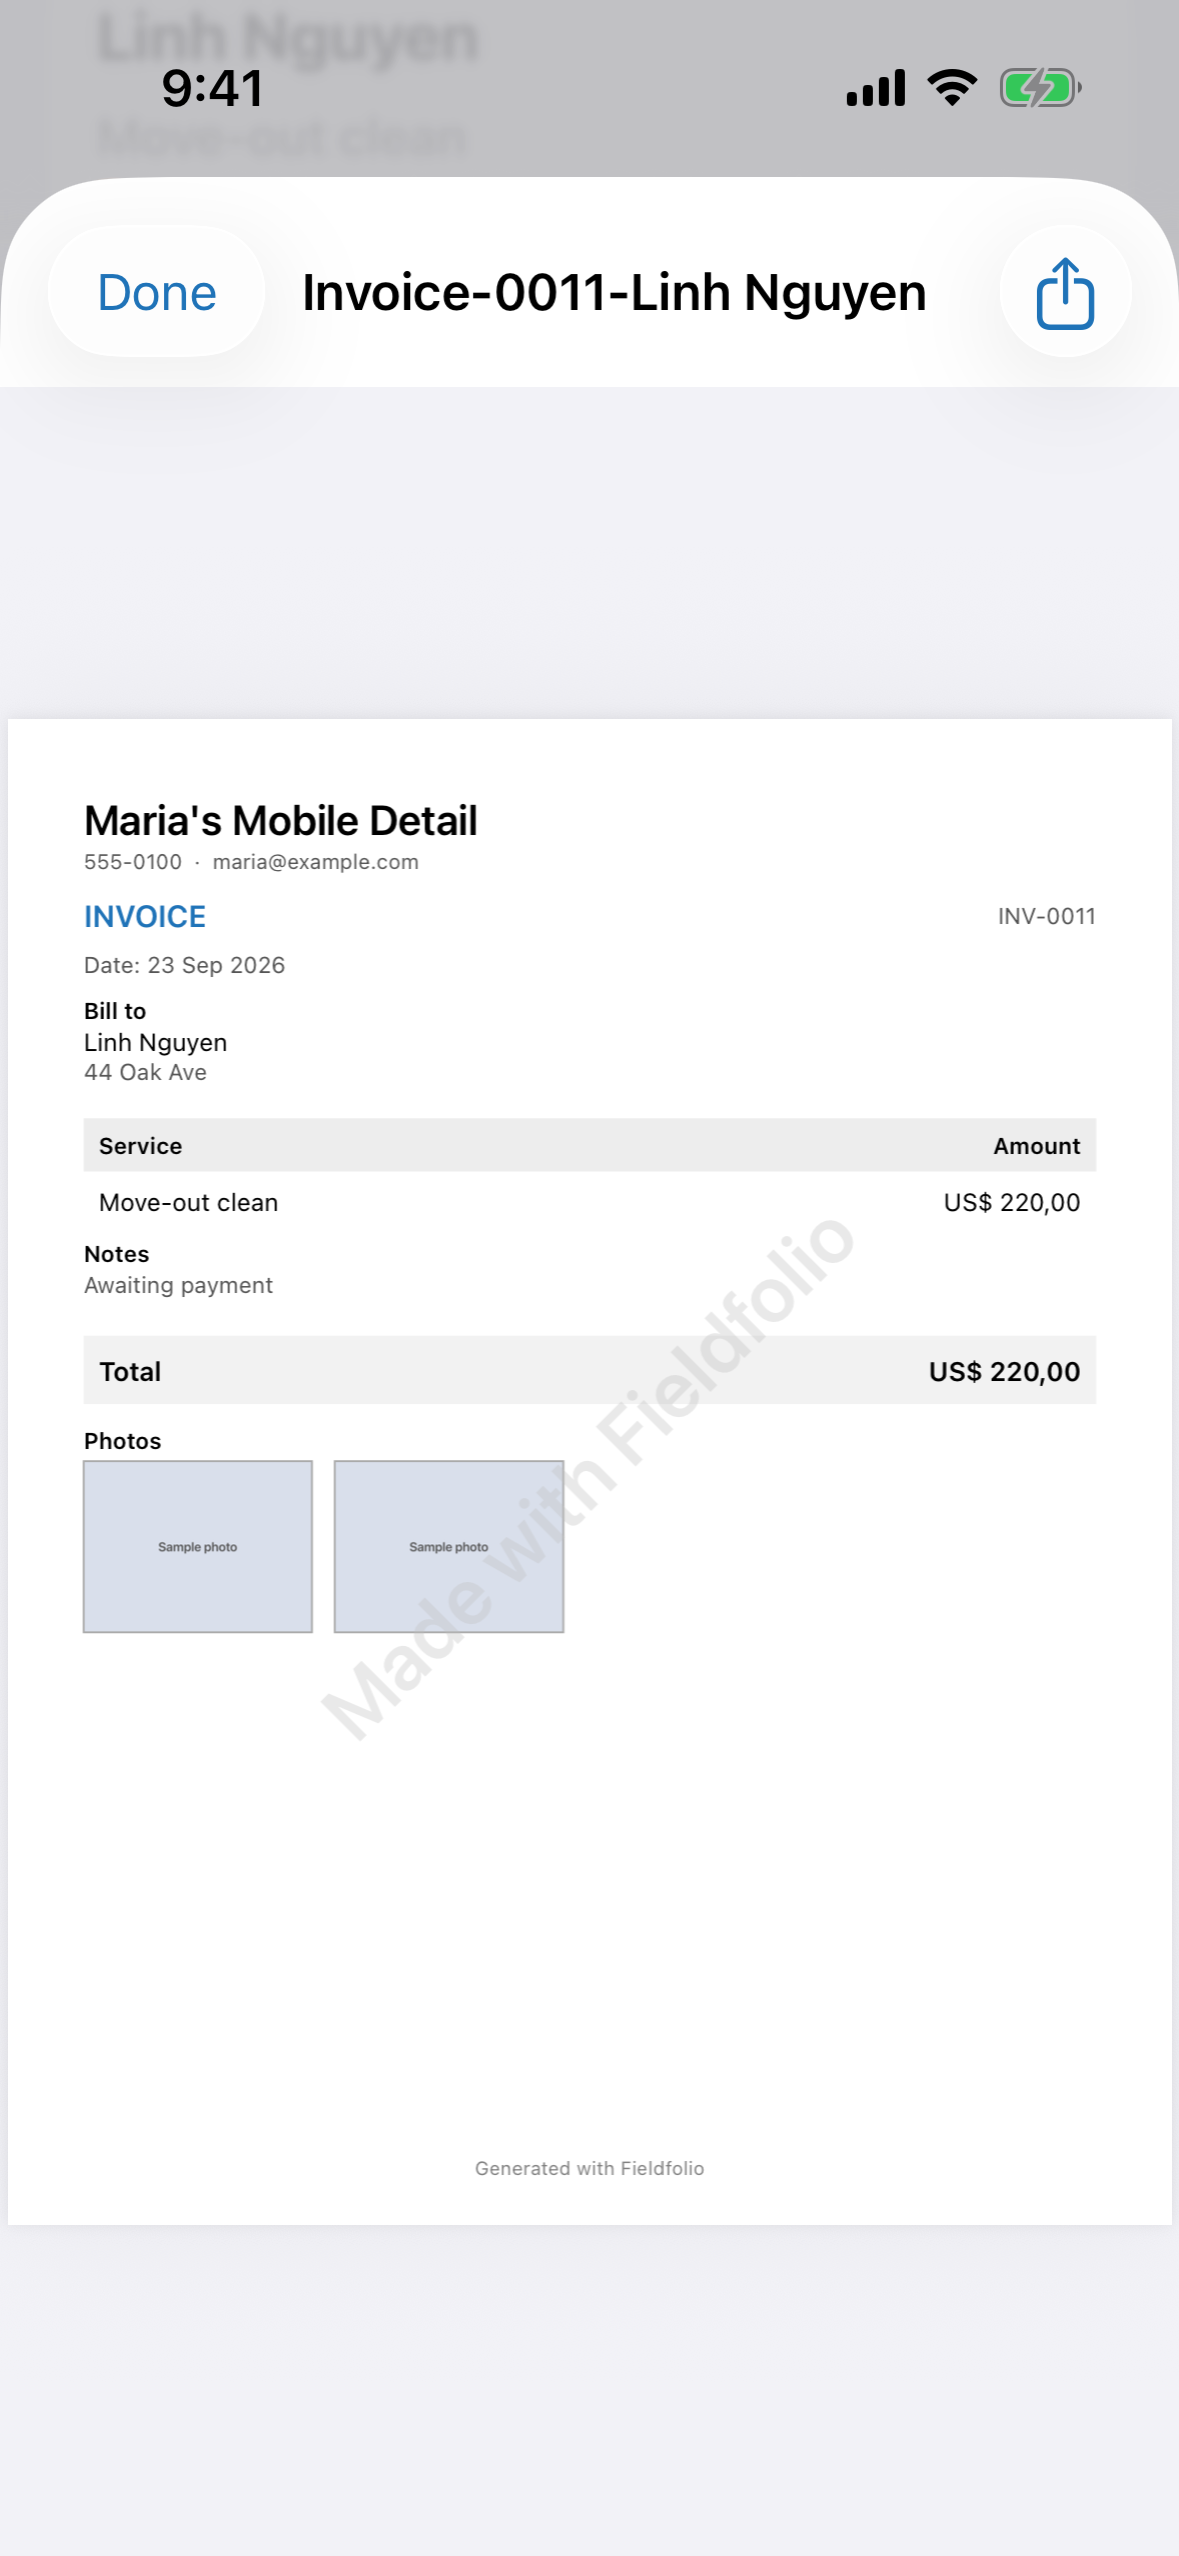
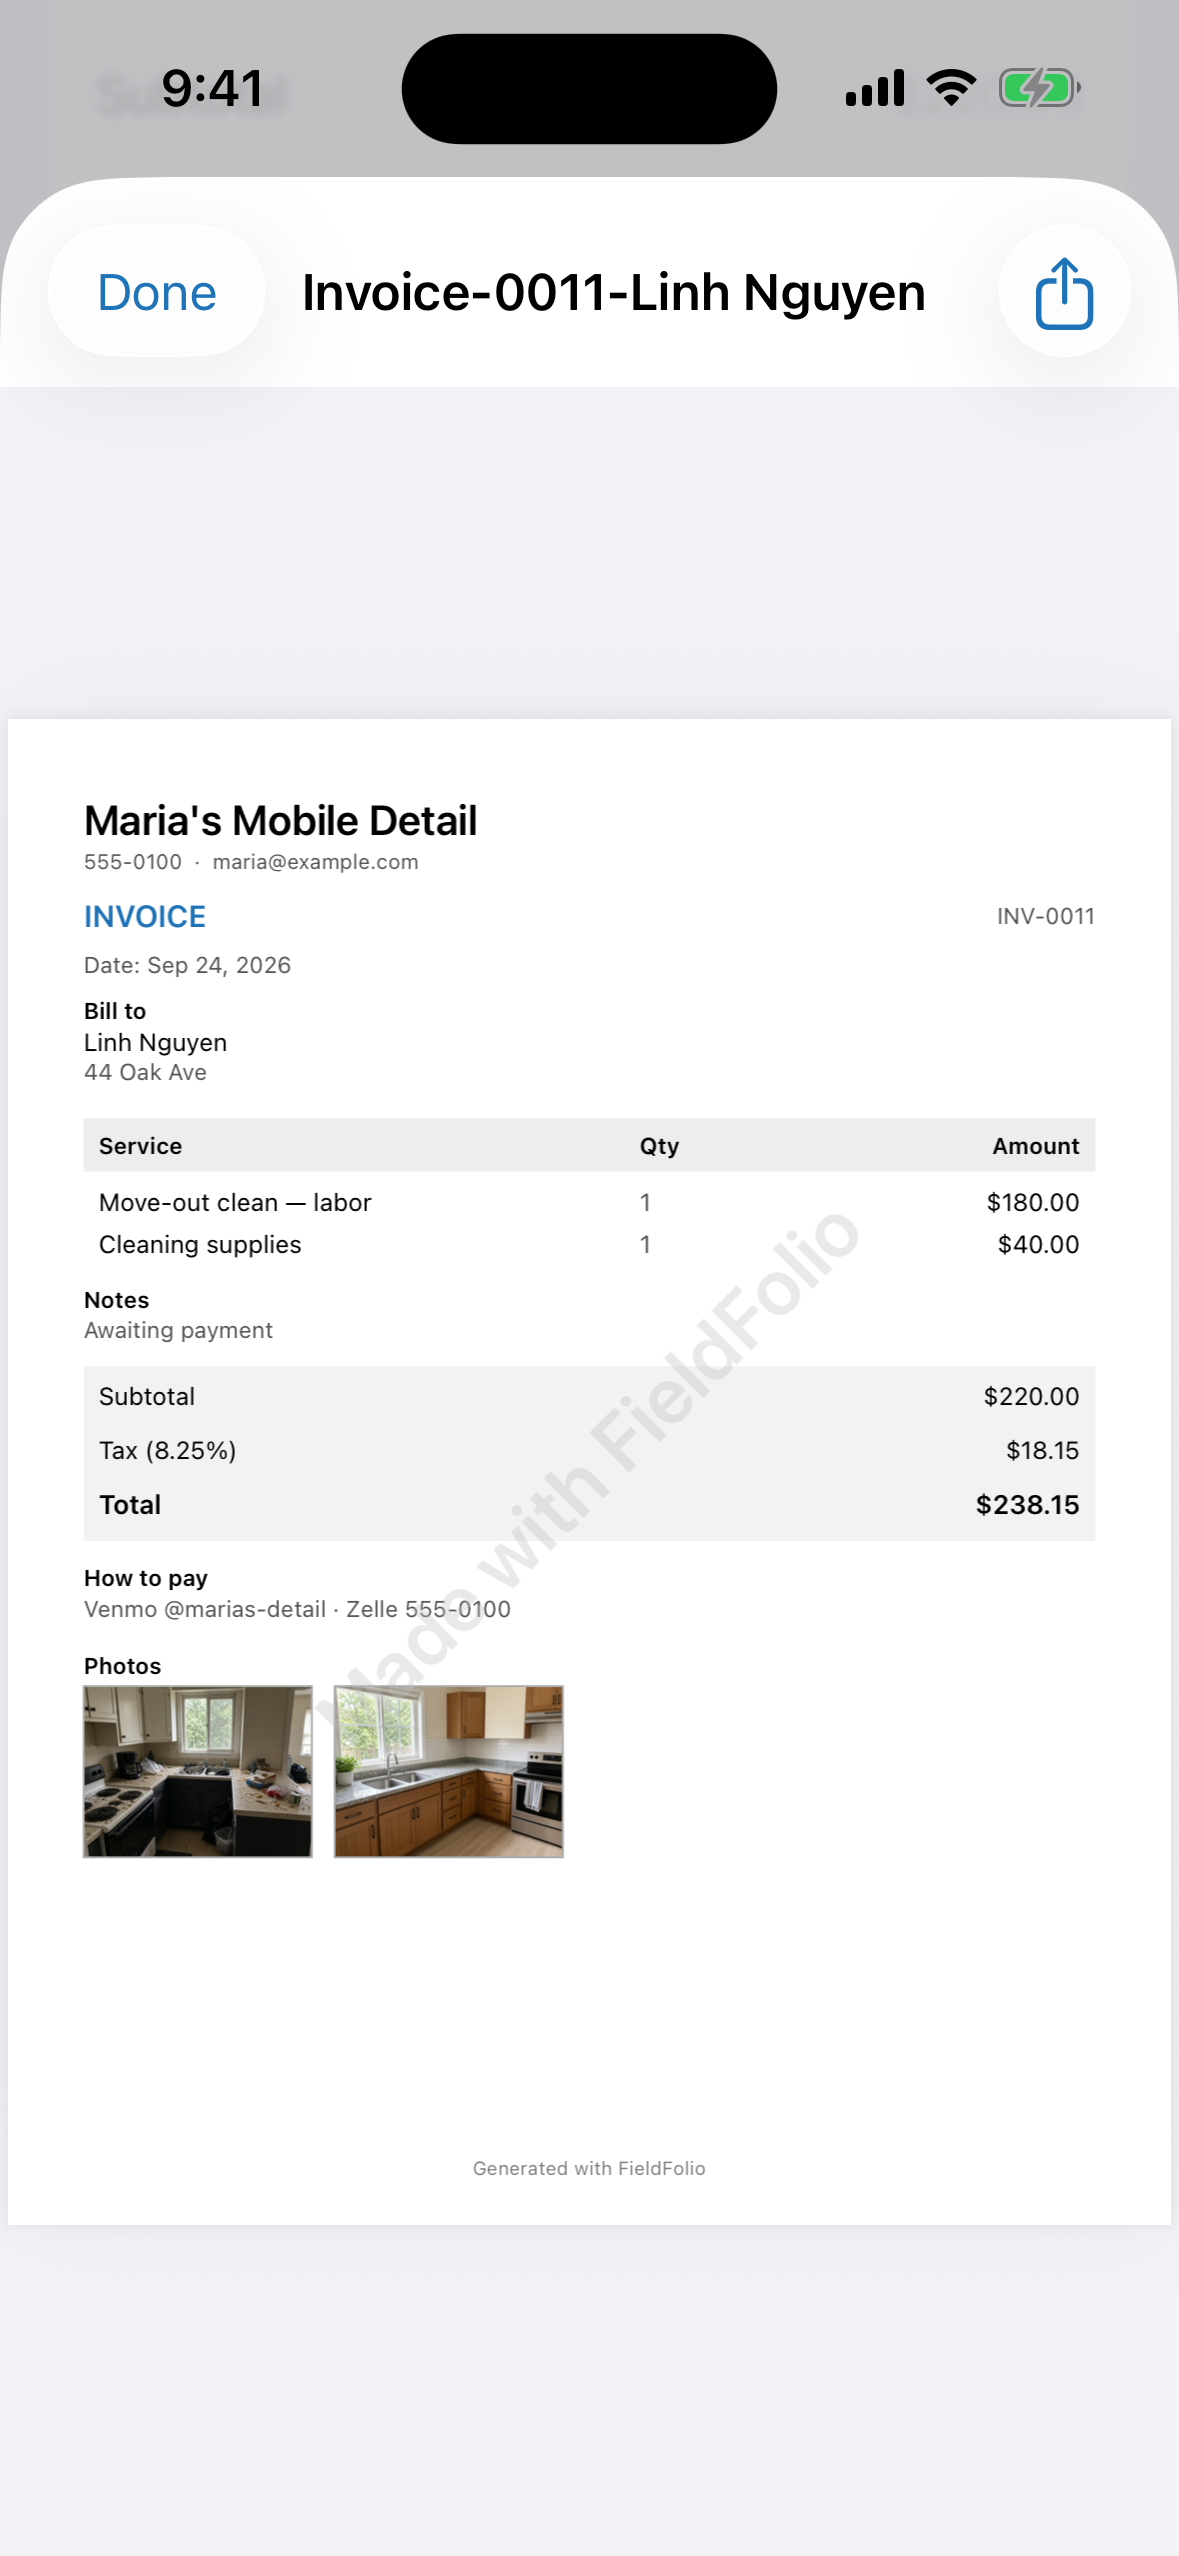
Refresh store listing assets for 1.0 launch
Update App Store metadata (including es-MX), privacy policy copy, and
re-capture English and Spanish screenshots with realistic job photos.

diff --git a/docs/privacy.html b/docs/privacy.html
@@ -13,7 +13,7 @@
 </head>
 <body>
   <h1>FieldFolio Privacy Policy</h1>
-  <p class="muted">Last updated: September 22, 2026</p>
+  <p class="muted">Last updated: September 24, 2026</p>
 
   <p>FieldFolio is a local-first job book for solo service workers. Your clients, jobs, photos, estimates, and invoices stay on your device.</p>
 
@@ -22,8 +22,8 @@
 
   <h2>Data stored on your device</h2>
   <ul>
-    <li>Business profile (name, phone, email, currency)</li>
-    <li>Clients, jobs, notes, and payment status</li>
+    <li>Business profile (name, phone, email, currency, payment instructions)</li>
+    <li>Clients, jobs, line items, notes, tax/discount amounts, and payment status</li>
     <li>Before/after photos you capture or attach</li>
     <li>Generated estimate and invoice PDFs you choose to share</li>
   </ul>
@@ -31,6 +31,9 @@
 
   <h2>Sharing</h2>
   <p>When you use the iOS share sheet to send a PDF, that content is delivered through the apps you choose (Messages, Mail, Files, etc.). FieldFolio does not upload that content to FieldFolio servers.</p>
+
+  <h2>Backups</h2>
+  <p>If you use Export backup, FieldFolio builds a ZIP file (CSV records and job photos) on your device. That file stays local until you share it yourself. FieldFolio does not upload backups to FieldFolio servers.</p>
 
   <h2>Purchases</h2>
   <p>In-app purchases are processed by Apple. Apple may collect payment information under Apple’s privacy policy. FieldFolio only receives an entitlement signal that Pro is unlocked.</p>

diff --git a/privacy.html b/privacy.html
@@ -13,7 +13,7 @@
 </head>
 <body>
   <h1>FieldFolio Privacy Policy</h1>
-  <p class="muted">Last updated: September 22, 2026</p>
+  <p class="muted">Last updated: September 24, 2026</p>
 
   <p>FieldFolio is a local-first job book for solo service workers. Your clients, jobs, photos, estimates, and invoices stay on your device.</p>
 
@@ -22,8 +22,8 @@
 
   <h2>Data stored on your device</h2>
   <ul>
-    <li>Business profile (name, phone, email, currency)</li>
-    <li>Clients, jobs, notes, and payment status</li>
+    <li>Business profile (name, phone, email, currency, payment instructions)</li>
+    <li>Clients, jobs, line items, notes, tax/discount amounts, and payment status</li>
     <li>Before/after photos you capture or attach</li>
     <li>Generated estimate and invoice PDFs you choose to share</li>
   </ul>
@@ -31,6 +31,9 @@
 
   <h2>Sharing</h2>
   <p>When you use the iOS share sheet to send a PDF, that content is delivered through the apps you choose (Messages, Mail, Files, etc.). FieldFolio does not upload that content to FieldFolio servers.</p>
+
+  <h2>Backups</h2>
+  <p>If you use Export backup, FieldFolio builds a ZIP file (CSV records and job photos) on your device. That file stays local until you share it yourself. FieldFolio does not upload backups to FieldFolio servers.</p>
 
   <h2>Purchases</h2>
   <p>In-app purchases are processed by Apple. Apple may collect payment information under Apple’s privacy policy. FieldFolio only receives an entitlement signal that Pro is unlocked.</p>

diff --git a/store/metadata.md b/store/metadata.md
@@ -31,9 +31,13 @@ WHAT YOU CAN DO
 • See today’s jobs and unpaid invoices at a glance
 • Keep clients, rates, and history in one place
 • Capture before and after photos on site
+• Add multiple line items with tax and discount
+• Put Venmo / Zelle / Cash App instructions on invoices
 • Send estimate PDFs, then convert them to jobs
 • Share numbered invoice PDFs via Messages or Mail
 • Mark jobs paid when the money lands
+• Export a ZIP backup of your data and photos
+• Use the app in English or Spanish
 • Optional Face ID lock for privacy
 
 WHY FIELDFOLIO
@@ -43,6 +47,7 @@ FREE
 • 3 clients
 • 8 jobs
 • Watermarked PDFs
+• Sample data does not count toward Free limits
 
 FIELDFOLIO PRO
 • Unlimited clients and jobs
@@ -55,11 +60,78 @@ $4.99/month · $29.99/year (7-day trial) · $59.99 lifetime
 Privacy first: no account, no FieldFolio cloud, no ads, no tracking. Your data stays on your device.
 
 Invoices are records, not tax or legal advice.
+
+Terms of Use: https://www.apple.com/legal/internet-services/itunes/dev/stdeula/
 ```
 
 ## What’s New (1.0.0)
 ```
 First release. Track jobs, capture before/after photos, send estimates and invoices, and mark work paid.
+```
+
+## Spanish (es-MX) listing
+
+### Name
+```
+FieldFolioTracker
+```
+
+### Subtitle
+```
+Trabajos · fotos · facturas
+```
+
+### Keywords (100 char max)
+```
+factura,presupuesto,limpieza,detallado,trabajos,fotos,pdf,venmo,handyman,limpieza
+```
+
+### Promotional text
+```
+Llega. Fotografía el trabajo. Factura desde la entrada. FieldFolio es la agenda simple para limpiezas, detallado y oficios — sin cuenta ni relleno.
+```
+
+### Description
+```
+FieldFolio es la agenda de trabajos para quienes llegan y cobran.
+
+Hecha para limpiezas, detallado móvil, oficios, jardinería y cualquiera que agenda por mensaje y cobra por Venmo o efectivo.
+
+QUÉ PUEDES HACER
+• Ver los trabajos de hoy y las facturas sin pagar de un vistazo
+• Guardar clientes, tarifas e historial en un solo lugar
+• Tomar fotos de antes y después en el sitio
+• Agregar varios conceptos con impuesto y descuento
+• Incluir instrucciones de pago (Venmo / Zelle / Cash App) en la factura
+• Enviar presupuestos en PDF y convertirlos en trabajos
+• Compartir facturas numeradas por Mensajes o Mail
+• Marcar trabajos como pagados
+• Exportar un respaldo ZIP con tus datos y fotos
+• Usar la app en inglés o español
+• Bloqueo opcional con Face ID
+
+POR QUÉ FIELDFOLIO
+El software tipo Jobber es demasiado cuando ya tienes clientes. FieldFolio reemplaza el caos del Carrete y las libretas con una boleta clara — sin conexión, privada y lista en dos minutos.
+
+GRATIS
+• 3 clientes
+• 8 trabajos
+• PDFs con marca de agua
+• Los datos de ejemplo no cuentan para los límites Gratis
+
+FIELDFOLIO PRO
+• Clientes y trabajos ilimitados
+• PDFs limpios sin marca de agua
+• Widget de Hoy
+• Recordatorios de trabajos
+
+$4.99/mes · $29.99/año (prueba de 7 días) · $59.99 de por vida
+
+Privacidad primero: sin cuenta, sin nube de FieldFolio, sin anuncios ni rastreo. Tus datos se quedan en tu dispositivo.
+
+Las facturas son registros, no asesoría fiscal ni legal.
+
+Términos de uso: https://www.apple.com/legal/internet-services/itunes/dev/stdeula/
 ```
 
 ## In-App Purchases (create in App Store Connect)
@@ -77,7 +149,7 @@ https://www.apple.com/legal/internet-services/itunes/dev/stdeula/
 
 ## Review notes
 ```
-FieldFolio requires no account. Sample data loads on first launch so you can open Today → a job → share an estimate or invoice PDF.
+FieldFolio requires no account. Sample data loads on first launch so you can open Today → a job → share an estimate or invoice PDF. Sample clients/jobs do not count toward Free limits; Settings includes Remove sample data.
 
 Camera permission is used only to attach before/after photos to a job; photos stay on device.
 
@@ -92,7 +164,7 @@ No user-generated public content, no messaging network, no location tracking bey
 ## Screenshots (captured)
 
 Upload the App Store Connect-compatible files from
-`store/screenshots/app-store/`:
+`store/screenshots/app-store/` (English) and `store/screenshots/es-MX/` when present:
 
 | # | Screen | App Store (1284×2778) |
 | --- | --- | --- |
